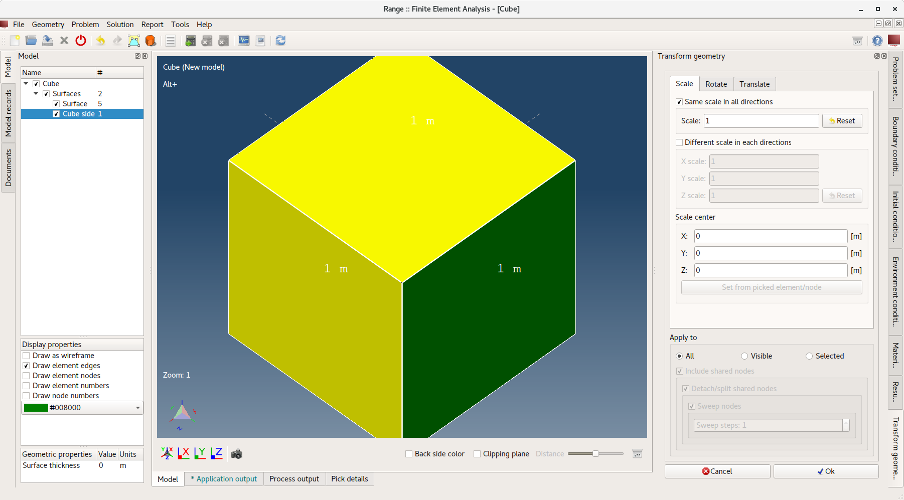
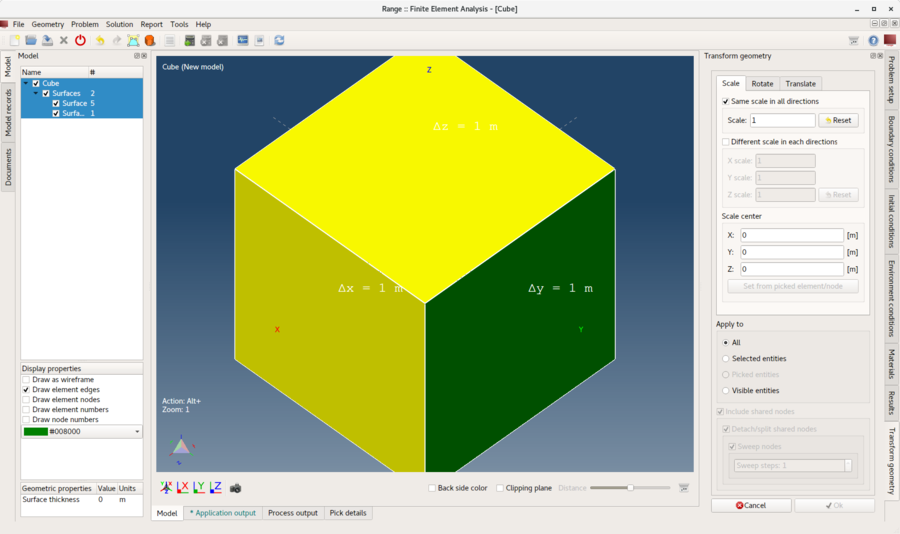
Updated documentation

diff --git a/range/Range/help/tutorial_Transform geometry.html b/range/Range/help/tutorial_Transform geometry.html
@@ -17,5 +17,8 @@
 <p>This action will show <b>Mark entity (surface)</b> dialog. Because in previous step one element was <b>picked</b> an option <b><i>Mark only selected and related elements</i></b> is preselected. By clicking <b>Ok</b> button one side of the <b>Cube</b> model will be marked as a separate <b>Surface entity</b>.</p>
 <p><i><b>Note:</b> Any entity can be renamed by <b>doubleclicking</b> with <b>Left mouse button</b> on entity name in the <b>Model tree</b> on the left side of the main window.</i></p>
 <p><center><img src="image-Marked_surface.png"/><center></p>
-<h2>Scale selected entity (cube side)</h2>
-<p><center><img src="image-Scale_selected_entity.png"/><center></p>
+<h2>Scale picked entity (cube side)</h2>
+<p><center><img src="image-Transform_geometry-scale.png"/><center></p>
+<p><center><img src="image-Scaled_surface.png"/><center></p>
+<p><center><img src="image-Transform_geometry-rotate.png"/><center></p>
+<p><center><img src="image-Rotated_surface.png"/><center></p>
